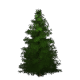
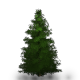
New sprites.

Changed region(s): [[0.175, 0.9, 0.9, 1.0]]

diff --git a/game_objects.py b/game_objects.py
@@ -247,7 +247,7 @@ class Tree(GameObject):
         self,
         x_coordinate=None,
         y_coordinate=None,
-        bitmap=pygame.image.load("./img/tree2.png"),
+        bitmap=pygame.image.load("./img/tree3.png"),
     ):
         GameObject.__init__(self, x_coordinate, y_coordinate, bitmap)
 
